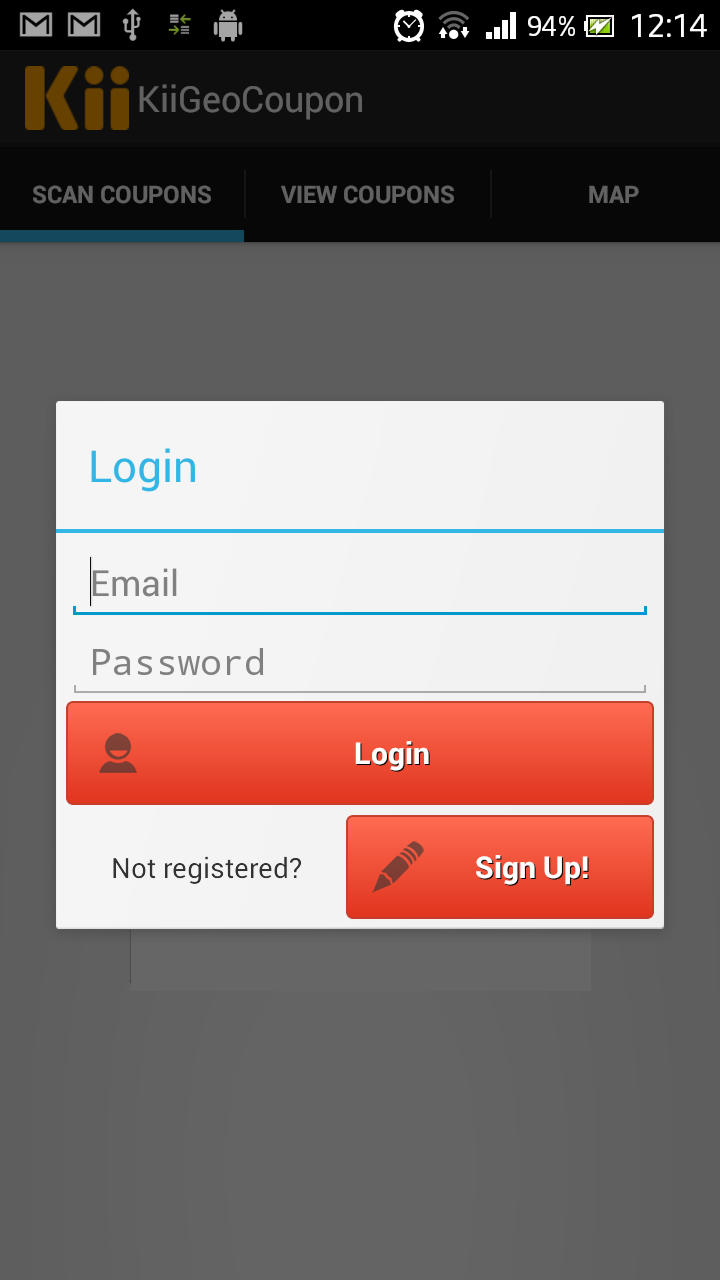
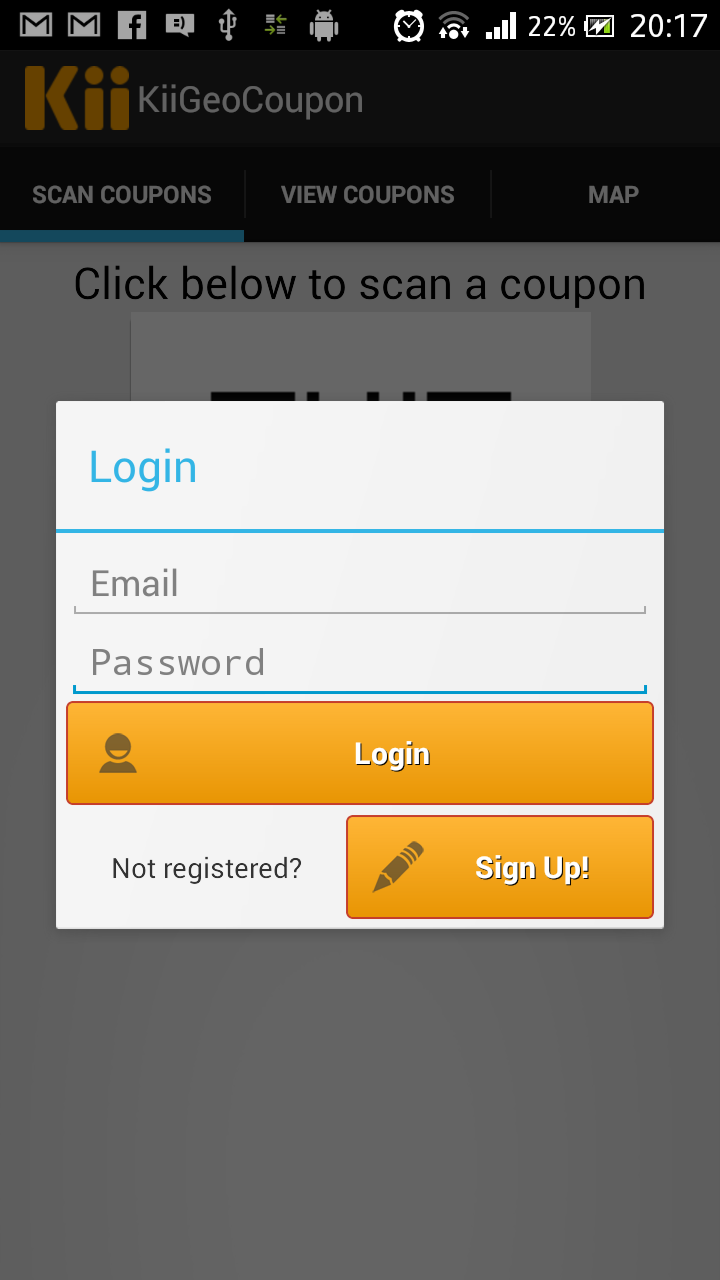
improved design

diff --git a/KiiGeoCoupon/gen/com/kii/sample/kiigeocoupon/R.java b/KiiGeoCoupon/gen/com/kii/sample/kiigeocoupon/R.java
@@ -201,10 +201,10 @@ containing a value of this type.
     public static final class id {
         public static final int LinearLayout1=0x7f060008;
         public static final int LinearLayout2=0x7f06000a;
-        public static final int action_settings=0x7f060021;
+        public static final int action_settings=0x7f060022;
         public static final int company=0x7f06000c;
         public static final int couponImage=0x7f060009;
-        public static final int coupon_gallery=0x7f060020;
+        public static final int coupon_gallery=0x7f060021;
         public static final int current_redeem=0x7f06001b;
         public static final int discountCode=0x7f060010;
         public static final int editText1=0x7f060019;
@@ -223,8 +223,9 @@ containing a value of this type.
         public static final int product=0x7f06000e;
         public static final int pwdField=0x7f060014;
         public static final int satellite=0x7f060002;
-        public static final int scan_button=0x7f06001e;
-        public static final int scanned_coupon=0x7f06001f;
+        public static final int scan_button=0x7f06001f;
+        public static final int scanned_coupon=0x7f060020;
+        public static final int scrollView1=0x7f06001e;
         public static final int signupButton=0x7f06001a;
         public static final int signup_area=0x7f060018;
         public static final int switchButton=0x7f060017;

diff --git a/KiiGeoCoupon/src/com/kii/sample/kiigeocoupon/ScanCouponFragment.java b/KiiGeoCoupon/src/com/kii/sample/kiigeocoupon/ScanCouponFragment.java
@@ -9,7 +9,7 @@ import android.view.View.OnClickListener;
 import android.view.ViewGroup;
 import android.widget.FrameLayout;
 import android.widget.ImageButton;
-import android.widget.LinearLayout;
+import android.widget.ScrollView;
 
 import com.google.zxing.integration.android.IntentIntegrator;
 import com.google.zxing.integration.android.IntentResult;
@@ -30,7 +30,7 @@ public class ScanCouponFragment extends Fragment {
 	@Override
 	public View onCreateView(LayoutInflater inflater, ViewGroup container,
 			Bundle savedInstanceState) {
-		LinearLayout rootView = (LinearLayout) inflater.inflate(
+		ScrollView rootView = (ScrollView) inflater.inflate(
 				R.layout.scan_coupon_fragment, container, false);
 		_scanButton = (ImageButton) rootView.findViewById(R.id.scan_button);
 		_scanButton.setOnClickListener(new OnClickListener() {
@@ -49,6 +49,7 @@ public class ScanCouponFragment extends Fragment {
 
 		return rootView;
 	}
+	
 
 	public void enableScan() {
 		_scanButton.setVisibility(View.VISIBLE);
